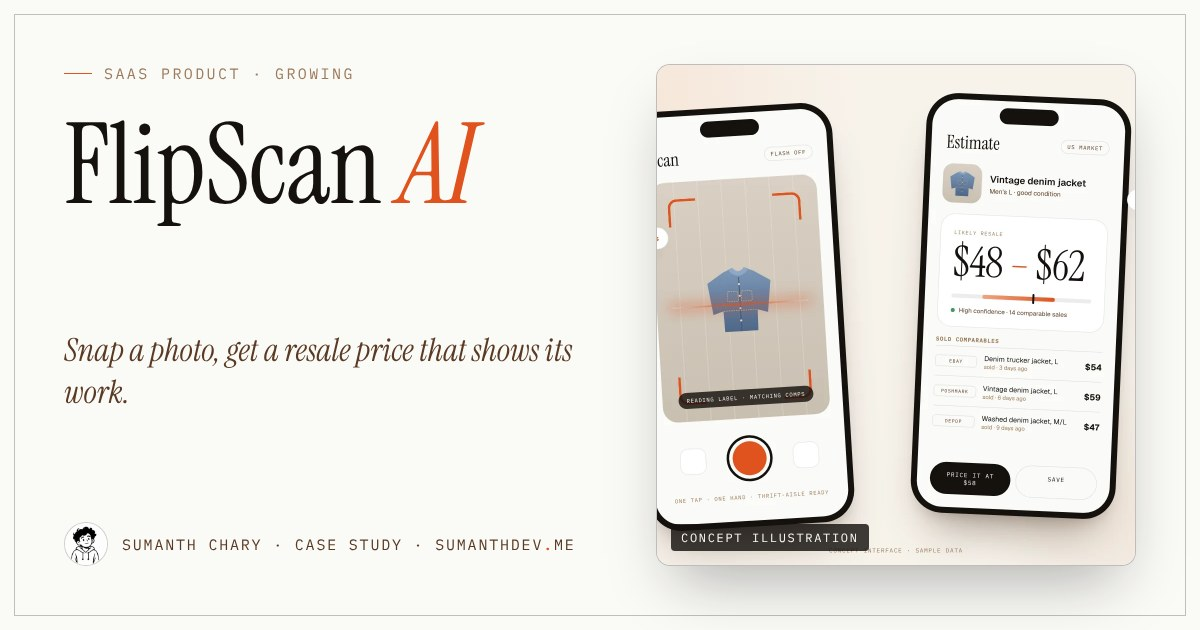
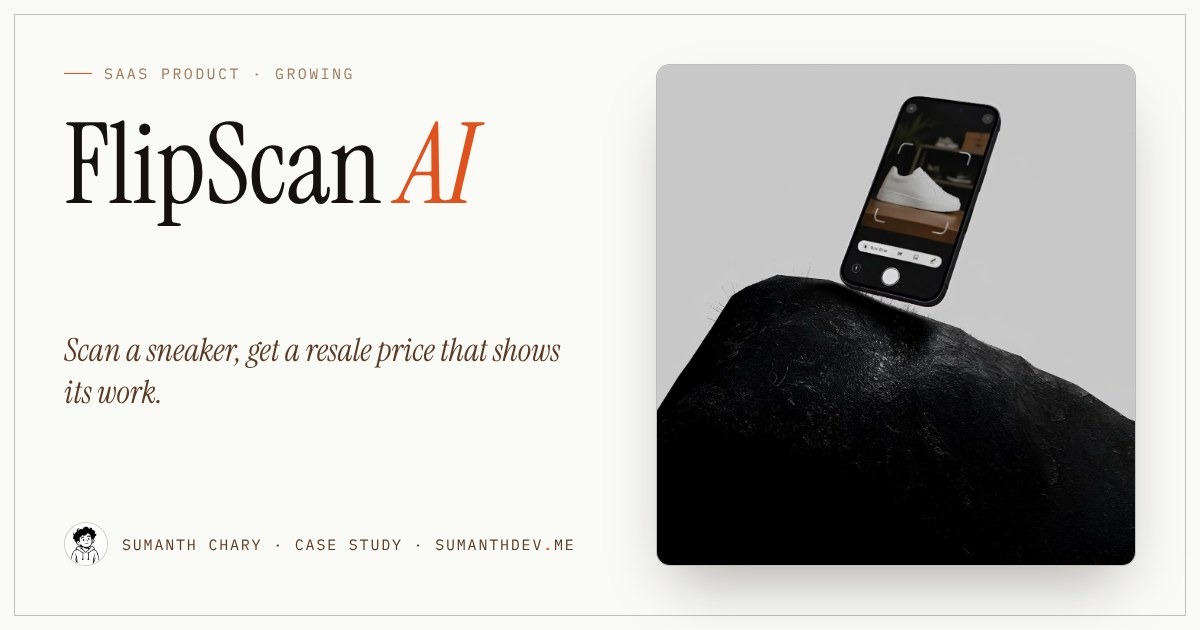
Real FlipScan and LegalDeep visuals, named client proof, sale details
Visuals
- FlipScan: real hero render + real welcome and scan screens on a device stage;
  copy now says sneakers (the app says 'Scan sneakers'); the invented denim-jacket
  concept is gone
- LegalDeep: the real landing page is the hero (captioned as branded ContractAI);
  the designed analysis view stays below it, still labelled as a concept
- Flexible gallery: 1, 2 or 3+ images, or portrait phone screenshots at natural size
- AirWrite: drop airwrite-photo-N.* into src/assets/media and they appear as hero
  and gallery automatically, with the concept illustration kept below as 'designed'
- Share cards regenerated for FlipScan and LegalDeep from the real images
- 3D deck: cards in front now drop away instead of sliding sideways and clipping

Proof
- Sri Vastrika: client named (Bhaskar) with the real WhatsApp message beside the quote
- LegalDeep: sold 11 October 2026 to Darren Gill, on the case study and in llms.txt
- roadmap.md updated, including a note that the quote line should match what the
  client actually said

Claude-Session: https://claude.ai/code/session_01EGSdgNS9nQNqCD6PpXqPSa

diff --git a/src/data/projects.ts b/src/data/projects.ts
@@ -8,9 +8,26 @@ import vastrikaArrivals from "@/assets/media/vastrika-arrivals.webp";
 import vastrikaProduct from "@/assets/media/vastrika-product.webp";
 import vastrikaLogo from "@/assets/media/vastrika-logo.webp";
 import { addOns } from "./site";
-import flipscanConcept from "@/assets/media/flipscan-concept.webp";
+import flipscanHero from "@/assets/media/flipscan-hero.webp";
+import flipscanScan from "@/assets/media/flipscan-scan.webp";
+import flipscanSplash from "@/assets/media/flipscan-splash.webp";
+import legaldeepLanding from "@/assets/media/legaldeep-landing.webp";
+import bhaskarMessage from "@/assets/media/bhaskar-message.webp";
 import legaldeepConcept from "@/assets/media/legaldeep-concept.webp";
 import airwriteConcept from "@/assets/media/airwrite-concept.webp";
+
+/**
+ * Real photos of AirWrite in use. Drop files named airwrite-photo-1.jpg, airwrite-photo-2.png …
+ * into src/assets/media and they appear on the case study — no code change needed.
+ */
+const airwritePhotos = Object.entries(
+  import.meta.glob("../assets/media/airwrite-photo-*.{jpg,jpeg,png,webp}", {
+    eager: true,
+    import: "default",
+  }),
+)
+  .sort(([a], [b]) => a.localeCompare(b, undefined, { numeric: true }))
+  .map(([, src]) => src as string);
 
 export type GalleryItem = { label: string; size: string; src?: string; fit?: "cover" | "contain" };
 
@@ -46,16 +63,20 @@ export type Project = {
    * Illustration used when there is no real screenshot to show. The case study
    * labels it clearly as a concept so nobody mistakes it for the shipped UI.
    */
-  concept?: { src: string; caption: string };
+  concept?: { src: string; caption: string; heading?: string };
   /** optional closing full-width image */
   closing?: { src: string; caption: string };
   /** a real line from the client — shown on the home page and the case study */
-  testimonial?: { quote: string; by: string };
+  testimonial?: { quote: string; by: string; /** screenshot of the real message */ proof?: string };
   /** what was in scope, and what was deliberately left out (client work) */
   scope?: {
     included: { title: string; items: string[] }[];
     separate: { name: string; note: string }[];
   };
+  /** one line under the hero image, e.g. what exactly the screenshot shows */
+  heroCaption?: string;
+  /** "phones": portrait app screenshots shown at natural size on a device stage */
+  galleryLayout?: "phones";
   /** public posts that back up the headline claim */
   evidence?: { source: string; label: string; href: string }[];
   /** client engagements get a dedicated block on the home page */
@@ -150,7 +171,11 @@ export const projects: Project[] = [
         "Collections built to be found on search, not just browsed",
       ],
     },
-    testimonial: { quote: "It's too good! I love it!", by: "Sri Vastrika — the client" },
+    testimonial: {
+      quote: "It's too good! I love it!",
+      by: "Bhaskar, Sri Vastrika",
+      proof: bhaskarMessage,
+    },
     scope: {
       included: [
         {
@@ -212,14 +237,14 @@ export const projects: Project[] = [
     tint: "--cover-legaldeep",
     role: "Founder — design, development",
     stack: "Lovable · Supabase · Claude",
-    statusLong: "Founded, built and sold",
+    statusLong: "Founded, built and sold — 11 Oct 2026",
     category: "SaaS product",
     brief:
       "Small businesses sign contracts they haven't fully read. LegalDeep needed to surface the three clauses that actually matter without pretending to be a lawyer.",
     approach:
       "A document view with inline risk flags rather than a separate report — the analysis lives where the text lives. Conservative language throughout, and every flag links back to the exact paragraph it came from.",
     result:
-      "Founded, built and sold — a complete product taken from idea to handover, with the sale announced publicly.",
+      "Founded, built and sold — acquired by Darren Gill on 11 October 2026. A complete product taken from idea to handover, with the sale announced publicly.",
     quote: "Confidence in a legal tool comes from restraint, not from claiming more than it knows.",
     evidence: [
       {
@@ -239,9 +264,13 @@ export const projects: Project[] = [
         href: "https://x.com/trust_mrr/status/2109001319650619561",
       },
     ],
+    hero: legaldeepLanding,
+    heroCaption: "The product's landing page, shown as branded ContractAI.",
     concept: {
+      heading: "The analysis view, as designed",
       src: legaldeepConcept,
-      caption: "Risk flags live inline, next to the paragraph they came from.",
+      caption:
+        "The analysis view as designed — risk flags live inline, next to the paragraph they came from.",
     },
     gallery: [],
   },
@@ -268,10 +297,17 @@ export const projects: Project[] = [
     result: "Launched — the full source is public on GitHub.",
     quote: "Most novel interfaces fail on latency, not on the idea.",
     concept: {
+      heading: "The interface, as designed",
       src: airwriteConcept,
       caption: "Hand landmarks in, smoothed strokes out — the canvas follows the fingertip.",
     },
-    gallery: [],
+    ...(airwritePhotos[0] ? { hero: airwritePhotos[0] } : {}),
+    heroCaption: "AirWrite in use.",
+    gallery: airwritePhotos.slice(1).map((src, i) => ({
+      label: `AirWrite in use — ${i + 2}`,
+      size: "Photo",
+      src,
+    })),
   },
   {
     slug: "flipscan-ai",
@@ -279,7 +315,8 @@ export const projects: Project[] = [
     title: "FlipScan AI",
     titleLead: "FlipScan",
     titleAccent: "AI",
-    description: "Resale price estimator for the US market — eBay, Poshmark, Depop.",
+    description:
+      "Sneaker resale price estimator for the US market — scan a pair, get an instant estimate.",
     tag: "SaaS Product",
     status: "Growing",
     live: false,
@@ -294,12 +331,12 @@ export const projects: Project[] = [
       "Built the scan flow mobile-first with a single input step, then layered comparable listings underneath the estimate so the number always shows its work. The whole flow was designed for one-handed use in the real world, not for a demo desk.",
     result: "Growing with early users — the estimate flow is live and iterating.",
     quote: "A price is only useful if the person reading it believes where it came from.",
-    concept: {
-      src: flipscanConcept,
-      caption:
-        "Scan on the left, comparable listings on the right — the number always shows its work.",
-    },
-    gallery: [],
+    hero: flipscanHero,
+    galleryLayout: "phones",
+    gallery: [
+      { label: "Welcome screen", size: "Scan sneakers. Get instant results.", src: flipscanSplash },
+      { label: "Scan screen", size: "Point, frame, scan", src: flipscanScan },
+    ],
   },
 ];
 

diff --git a/src/routes/work.$slug.tsx b/src/routes/work.$slug.tsx
@@ -3,6 +3,7 @@ import { ImageFrame } from "@/components/ImageFrame";
 import { Reveal } from "@/components/Reveal";
 import { ShareRow } from "@/components/ShareRow";
 import { Tilt } from "@/components/Tilt";
+import { CaseGallery } from "@/components/CaseGallery";
 import { CALENDLY, Wordmark, whatsappLink } from "@/components/SiteChrome";
 import { getProject, projects } from "@/data/projects";
 
@@ -90,12 +91,6 @@ function CaseStudy() {
   const p = Route.useLoaderData();
   const idx = projects.findIndex((x) => x.slug === p.slug);
   const next = projects[(idx + 1) % projects.length]!;
-  const [g0, g1, g2] = p.gallery as [
-    (typeof p.gallery)[0],
-    (typeof p.gallery)[0],
-    (typeof p.gallery)[0],
-  ];
-
   return (
     <>
       <header className="flex items-center justify-between px-[clamp(20px,4vw,56px)] py-7">
@@ -174,6 +169,11 @@ function CaseStudy() {
                 className="w-full"
               />
             </Tilt>
+            {p.heroCaption && (
+              <p className="mt-3 font-mono text-[0.68rem] uppercase tracking-[0.08em] text-brown-soft">
+                {p.heroCaption}
+              </p>
+            )}
           </Reveal>
         )}
 
@@ -220,36 +220,32 @@ function CaseStudy() {
           </div>
         </Reveal>
 
-        {g0 && g1 && g2 && (
-          <Reveal className="grid gap-5 md:grid-cols-2 md:items-start">
-            <ImageFrame
-              label={g0.label}
-              size={g0.size}
-              src={g0.src}
-              alt={`${p.title} — ${g0.label}`}
-              auto={!!g0.src}
-              className={g0.src ? "w-full" : "aspect-[4/5] w-full"}
-            />
-            <div className="grid gap-5">
+        {p.hero && p.concept && (
+          <Reveal className="pb-12 md:pb-16">
+            <p className="mono-label m-0 mb-4 text-brown-soft">
+              {p.concept.heading ?? "The interface, as designed"}
+            </p>
+            <Tilt>
               <ImageFrame
-                label={g1.label}
-                size={g1.size}
-                src={g1.src}
-                alt={`${p.title} — ${g1.label}`}
-                auto={!!g1.src}
-                className={g1.src ? "w-full" : "aspect-[16/10] w-full"}
+                label={p.concept.caption}
+                src={p.concept.src}
+                alt={`${p.title} — concept illustration`}
+                auto
+                className="w-full"
               />
-              <ImageFrame
-                label={g2.label}
-                size={g2.size}
-                src={g2.src}
-                alt={`${p.title} — ${g2.label}`}
-                auto={!!g2.src}
-                className={g2.src ? "w-full" : "aspect-[16/10] w-full"}
-              />
-            </div>
+            </Tilt>
+            <p className="mt-3 flex flex-wrap items-center gap-x-3 gap-y-1 font-mono text-[0.68rem] uppercase tracking-[0.08em] text-brown-soft">
+              <span className="rounded-full border border-primary/40 px-2.5 py-0.5 text-primary">
+                Concept illustration
+              </span>
+              <span className="normal-case tracking-[0.02em]">
+                {p.concept.caption} Not a screenshot of the shipped UI.
+              </span>
+            </p>
           </Reveal>
         )}
+
+        <CaseGallery title={p.title} items={p.gallery} layout={p.galleryLayout} />
 
         {p.beforeAfter && (
           <Reveal className="mt-5 grid gap-5 sm:grid-cols-2">
@@ -282,14 +278,30 @@ function CaseStudy() {
         )}
 
         {p.testimonial && (
-          <Reveal className="mt-16 rounded-xl border border-primary/40 bg-frame/60 p-7 sm:p-12">
-            <p className="mono-label m-0 text-primary">What the client said</p>
-            <blockquote className="m-0 mt-5 font-serif text-[clamp(2rem,5vw,3.4rem)] italic leading-[1.15] text-foreground">
-              “{p.testimonial.quote}”
-            </blockquote>
-            <p className="mb-0 mt-5 font-mono text-[0.68rem] uppercase tracking-[0.12em] text-brown-soft">
-              {p.testimonial.by}
-            </p>
+          <Reveal className="mt-16 grid gap-8 rounded-xl border border-primary/40 bg-frame/60 p-7 sm:p-10 lg:grid-cols-[1.2fr_0.8fr] lg:items-center lg:gap-12">
+            <div>
+              <p className="mono-label m-0 text-primary">What the client said</p>
+              <blockquote className="m-0 mt-5 font-serif text-[clamp(2rem,5vw,3.4rem)] italic leading-[1.15] text-foreground">
+                “{p.testimonial.quote}”
+              </blockquote>
+              <p className="mb-0 mt-5 font-mono text-[0.68rem] uppercase tracking-[0.12em] text-brown-soft">
+                {p.testimonial.by}
+              </p>
+            </div>
+            {p.testimonial.proof && (
+              <figure className="m-0">
+                <img
+                  src={p.testimonial.proof}
+                  alt="A message from the client on WhatsApp: “Kk bro thanks for everything”, with a heart reaction"
+                  loading="lazy"
+                  decoding="async"
+                  className="block h-auto w-full max-w-[442px] rounded-2xl border border-border-strong shadow-[var(--shadow-float)]"
+                />
+                <figcaption className="mt-3 font-mono text-[0.62rem] uppercase tracking-[0.1em] text-brown-soft">
+                  A real message from {p.testimonial.by.split(",")[0]}
+                </figcaption>
+              </figure>
+            )}
           </Reveal>
         )}
 

diff --git a/src/components/CaseGallery.tsx b/src/components/CaseGallery.tsx
@@ -1,0 +1,87 @@
+import { ImageFrame } from "@/components/ImageFrame";
+import { Reveal } from "@/components/Reveal";
+import { Tilt } from "@/components/Tilt";
+import type { GalleryItem } from "@/data/projects";
+
+/** Portrait app screenshots at natural size on a soft "device stage" — no stretching, no blur. */
+function PhoneStage({ title, items }: { title: string; items: GalleryItem[] }) {
+  return (
+    <Reveal className="mt-5">
+      <Tilt max={2.5}>
+        <div
+          className="relative overflow-hidden rounded-xl border border-border px-4 pb-10 pt-8 sm:px-10 sm:pb-14 sm:pt-12"
+          style={{
+            background:
+              "radial-gradient(60% 80% at 50% 25%, oklch(0.93 0.05 55 / 0.7), transparent 70%), var(--frame-bg)",
+          }}
+        >
+          <div className="mx-auto flex max-w-[640px] items-start justify-center gap-4 sm:gap-10">
+            {items.map((g, i) => (
+              <figure
+                key={g.label}
+                className={`m-0 w-[46%] max-w-[260px] ${i % 2 === 1 ? "mt-10 sm:mt-16" : ""}`}
+              >
+                <img
+                  src={g.src}
+                  alt={`${title} — ${g.label}`}
+                  loading="lazy"
+                  decoding="async"
+                  className="block h-auto w-full rounded-[1.4rem] border border-border-strong bg-background shadow-[var(--shadow-float)] sm:rounded-[1.8rem]"
+                />
+                <figcaption className="mt-3 text-center font-mono text-[0.62rem] uppercase tracking-[0.1em] text-brown-soft">
+                  {g.label}
+                  <small className="mt-0.5 block normal-case tracking-[0.02em]">{g.size}</small>
+                </figcaption>
+              </figure>
+            ))}
+          </div>
+        </div>
+      </Tilt>
+    </Reveal>
+  );
+}
+
+/** Adapts to however many real images a project has: 1, 2 or 3+. Nothing renders for zero. */
+export function CaseGallery({
+  title,
+  items,
+  layout,
+}: {
+  title: string;
+  items: GalleryItem[];
+  layout?: "phones" | undefined;
+}) {
+  const shown = items.filter((g) => g.src);
+  if (shown.length === 0) return null;
+  if (layout === "phones") return <PhoneStage title={title} items={shown} />;
+
+  const frame = (g: GalleryItem, cls = "w-full") => (
+    <ImageFrame
+      key={g.label}
+      label={g.label}
+      size={g.size}
+      src={g.src}
+      alt={`${title} — ${g.label}`}
+      auto
+      className={cls}
+    />
+  );
+
+  if (shown.length >= 3) {
+    const [g0, g1, g2] = shown as [GalleryItem, GalleryItem, GalleryItem];
+    return (
+      <Reveal className="grid gap-5 md:grid-cols-2 md:items-start">
+        {frame(g0)}
+        <div className="grid gap-5">
+          {frame(g1)}
+          {frame(g2)}
+        </div>
+      </Reveal>
+    );
+  }
+  return (
+    <Reveal className={`grid gap-5 ${shown.length === 2 ? "md:grid-cols-2" : ""}`}>
+      {shown.map((g) => frame(g))}
+    </Reveal>
+  );
+}

diff --git a/src/routes/index.tsx b/src/routes/index.tsx
@@ -403,7 +403,7 @@ function Receipts() {
     {
       label: "Founded & sold",
       title: "LegalDeep AI",
-      note: "Built from zero, then sold. The sale was announced publicly — see the record.",
+      note: "Built from zero, sold in October 2026. The public posts are linked in the case study.",
       cta: "See the public record",
       to: "legaldeep-ai",
       live: false,

diff --git a/src/components/HeroStage.tsx b/src/components/HeroStage.tsx
@@ -357,7 +357,7 @@ export function HeroStage({ chip }: { chip: ReactNode }) {
           const p = peel[i]!;
           const holder = holders[i]!;
           holder.position.set(
-            x0 + i * STEP.x - p * 0.8 + h * 0.1,
+            x0 + i * STEP.x - p * 0.38 + h * 0.1,
             y0 +
               i * STEP.y -
               p * 0.8 +

diff --git a/roadmap.md b/roadmap.md
@@ -19,11 +19,14 @@
 5. **FlipScan AI** — keep last until it has a live URL or real screenshots; "early users" alone is thin.
 
 ## Next — highest leverage first
-- [x] Sri Vastrika client line is live (home + case study). Still wanted: the person's name and a screenshot of the message
+- [x] Sri Vastrika client line is live (home + case study), named (Bhaskar) with a real WhatsApp message beside it
+- [ ] Make sure the quote on the site is something Bhaskar actually said — the screenshot shows "Kk bro thanks for everything", not the quote line. Add a screenshot of the quote itself, or switch the quote to his words
 - [ ] Replace the one-line testimonial with a longer quote once the client can give one
 - [x] LegalDeep public record linked (2 posts on X, LinkedIn, TrustMRR)
-- [ ] Confirm the sale month and the buyer's name — the old copy said "Sep 2024" but the linked X posts date to Oct 2026, so the date is removed until confirmed
-- [ ] Real screenshots/recordings for FlipScan, LegalDeep, AirWrite (set `hero` in `src/data/projects.ts`)
+- [x] LegalDeep sale: 11 October 2026, buyer Darren Gill (shown on the case study)
+- [x] Real FlipScan screens + render, real LegalDeep landing page
+- [ ] AirWrite: add real photos/recordings — drop files named `airwrite-photo-1.jpg`, `airwrite-photo-2.png` … into `src/assets/media` and they appear automatically (first = hero, rest = gallery)
+- [ ] Higher-resolution FlipScan screenshots (two are only 215px and 410px wide)
 - [ ] "Try AirWrite" live demo on the site — the most shareable asset you own
 - [ ] 30-second screen recording per case study (autoplay, muted) for X/LinkedIn
 - [ ] Free "3-minute site teardown" lead magnet → WhatsApp
